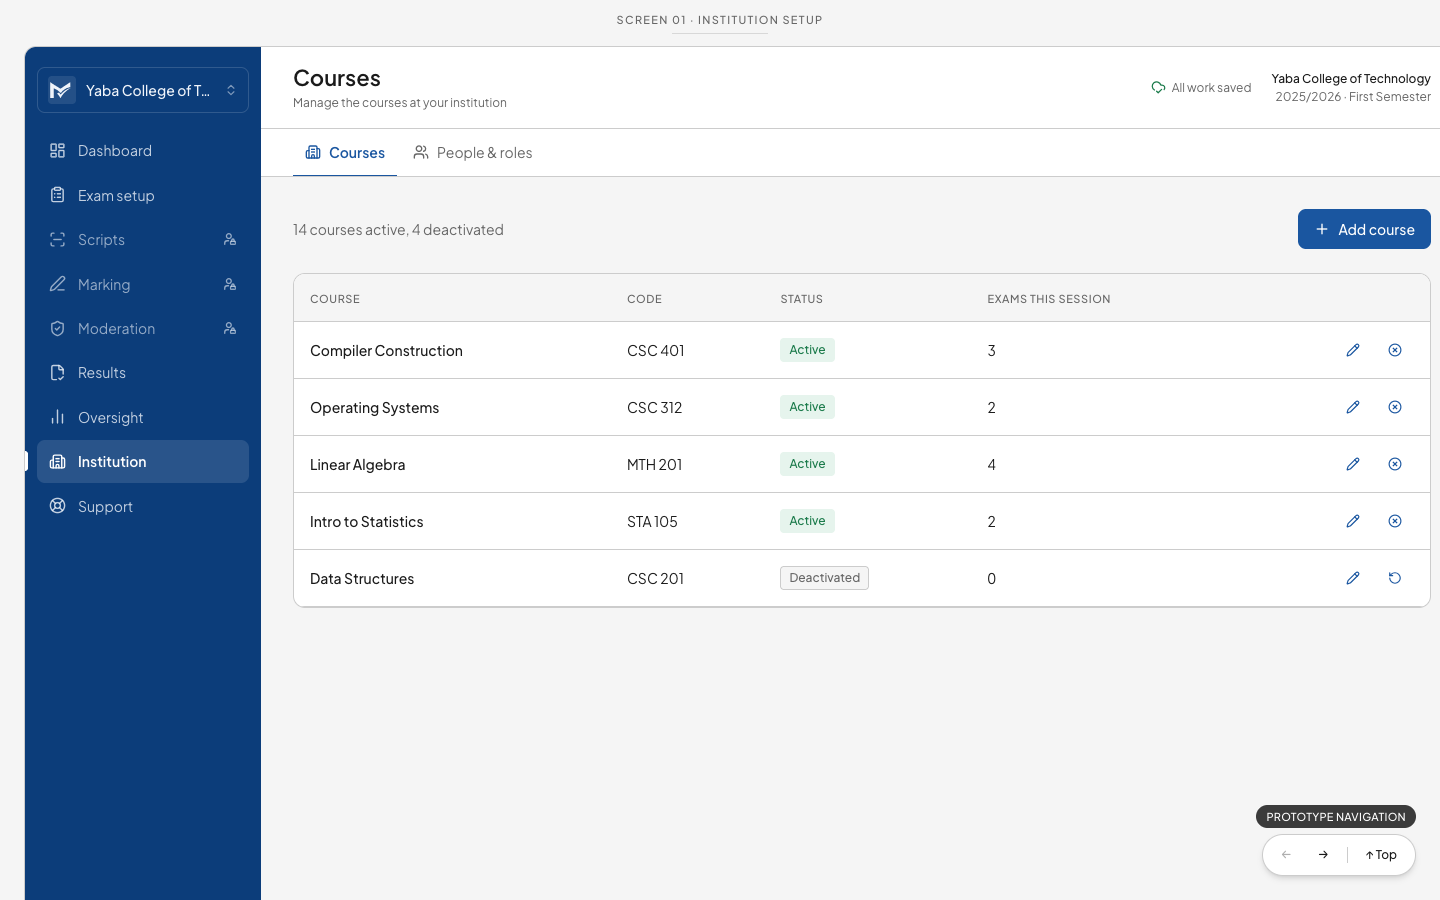
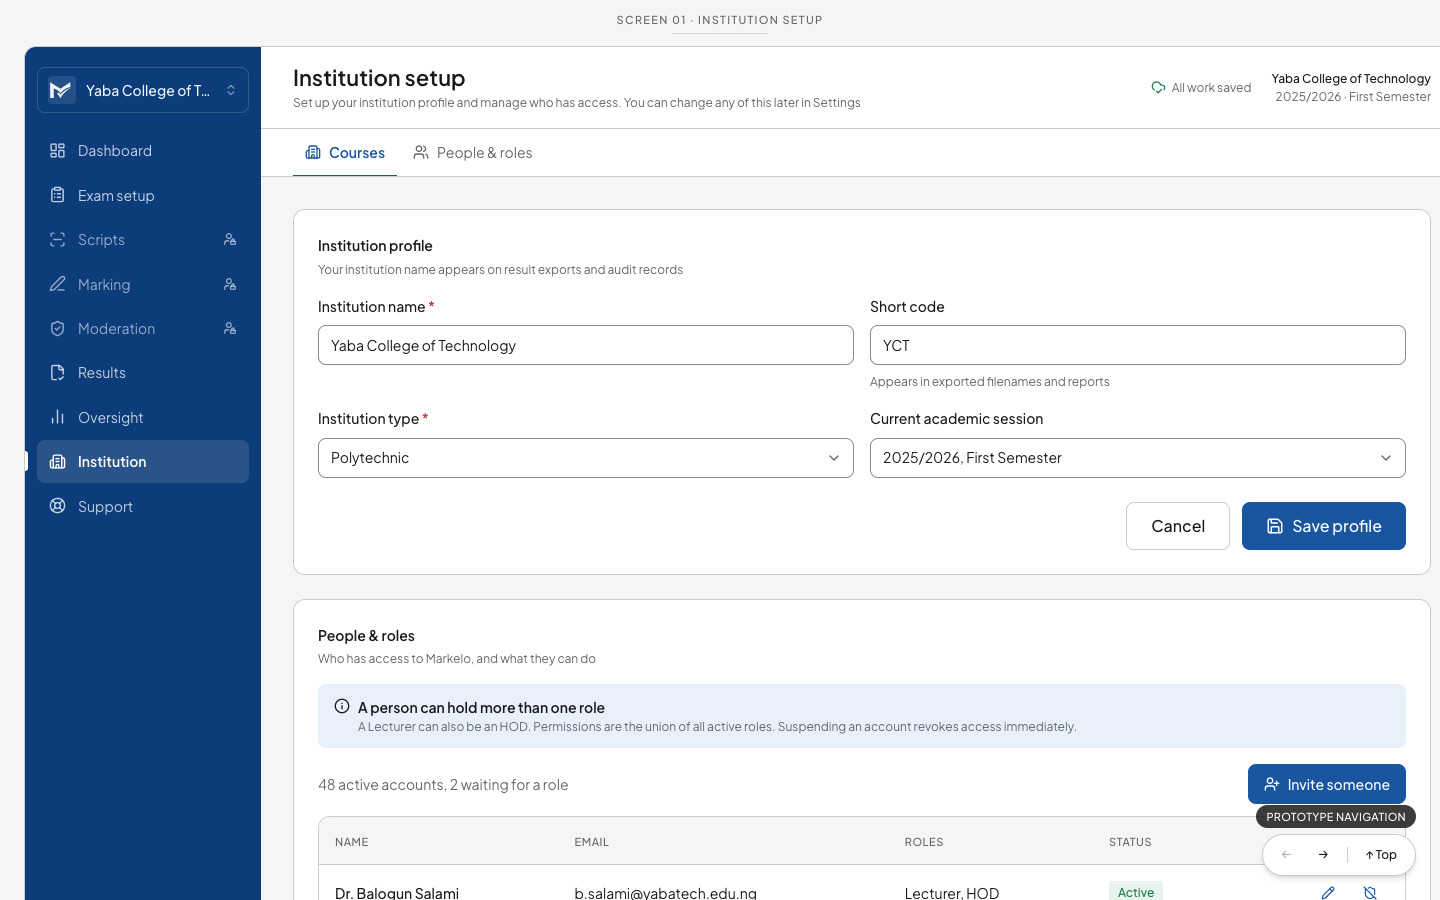
feat(governance): combined Institution Setup screen (profile + People & Roles roster)
- New InstitutionSetup screen: institution profile card (name, type, short
  code, session) plus People & Roles table below it, one scrolling page
- Replaces the separate People & Roles screen in the 5180 flow (5 screens)
- Registered in scaffold harness under Phase 2, before Institution Courses
- 13/13 verify.mjs checks PASS

diff --git a/webapp-scaffold/src/screens/admin.tsx b/webapp-scaffold/src/screens/admin.tsx
@@ -20,7 +20,7 @@ import {
   Upload, FileUp, ScanLine,
   PenLine, Archive,
   ScrollText, Lock, Unlock,
-  Check, RotateCcw,
+  Check, RotateCcw, Save,
 } from "lucide-react";
 
 /* ------------------------------------------------------------------ helpers */
@@ -48,6 +48,97 @@ function SkeletonCard() {
         <div className="h-4 w-3/4 animate-pulse rounded bg-bg" />
       </div>
     </Card>
+  );
+}
+
+/* ----------------------------------------------- 0. Institution Setup */
+
+export function InstitutionSetup() { return <InstitutionSetupDefault />; }
+
+function InstitutionSetupDefault() {
+  return (
+    <AppFrame role={ROLES.admin} activeLabel="Courses" title="Institution setup" sub="Set up your institution profile and manage who has access. You can change any of this later in Settings">
+      <div className="flex flex-col gap-6">
+        <Card>
+          <CardHeader
+            title="Institution profile"
+            sub="Your institution name appears on result exports and audit records"
+          />
+          <form className="flex flex-col gap-4" onSubmit={(e) => e.preventDefault()}>
+            <div className="grid grid-cols-2 gap-4">
+              <Field label="Institution name" required>
+                <Input defaultValue="Yaba College of Technology" />
+              </Field>
+              <Field label="Short code" hint="Appears in exported filenames and reports">
+                <Input defaultValue="YCT" />
+              </Field>
+            </div>
+            <div className="grid grid-cols-2 gap-4">
+              <Field label="Institution type" required>
+                <Select defaultValue="poly">
+                  <option value="uni">University</option>
+                  <option value="poly">Polytechnic</option>
+                  <option value="coe">College of Education</option>
+                  <option value="mono">Monotechnic</option>
+                </Select>
+              </Field>
+              <Field label="Current academic session">
+                <Select defaultValue="2025-2026-1">
+                  <option value="2025-2026-1">2025/2026, First Semester</option>
+                  <option value="2024-2025-2">2024/2025, Second Semester</option>
+                </Select>
+              </Field>
+            </div>
+            <div className="flex items-center justify-end gap-3 pt-2">
+              <Button variant="secondary" size="lg">Cancel</Button>
+              <Button size="lg" icon={Save}>Save profile</Button>
+            </div>
+          </form>
+        </Card>
+
+        <Card>
+          <CardHeader
+            title="People & roles"
+            sub="Who has access to Markelo, and what they can do"
+          />
+          <Notice tone="brand" title="A person can hold more than one role">
+            A Lecturer can also be an HOD. Permissions are the union of all active roles. Suspending an
+            account revokes access immediately.
+          </Notice>
+          <div className="mt-4 flex items-center justify-between">
+            <p className="text-body text-muted">48 active accounts, 2 waiting for a role</p>
+            <Button icon={UserPlus}>Invite someone</Button>
+          </div>
+          <div className="mt-3">
+            <Table head={["Name", "Email", "Roles", "Status", ""]}>
+              {[
+                { n: "Dr. Balogun Salami", e: "b.salami@yabatech.edu.ng", r: "Lecturer, HOD", s: "Active" },
+                { n: "Mrs. Adaeze Okonkwo", e: "a.okonkwo@yabatech.edu.ng", r: "Exam Officer", s: "Active" },
+                { n: "Chidinma Eze", e: "c.eze@yabatech.edu.ng", r: "Teaching Assistant", s: "Active" },
+                { n: "Prof. Eze Nwachukwu", e: "e.nwachukwu@yabatech.edu.ng", r: "Moderator / HOD", s: "Active" },
+                { n: "Grace Obi", e: "g.obi@yabatech.edu.ng", r: "Not set", s: "Awaiting role" },
+                { n: "Samuel Idowu", e: "s.idowu@yabatech.edu.ng", r: "Not set", s: "Awaiting role" },
+              ].map((r) => (
+                <tr key={r.e}>
+                  <Td className="font-medium">{r.n}</Td>
+                  <Td className="text-muted">{r.e}</Td>
+                  <Td><span className="text-body text-text">{r.r}</span></Td>
+                  <Td>
+                    <Badge tone={r.s === "Active" ? "success" : "warning"}>{r.s}</Badge>
+                  </Td>
+                  <Td className="text-right">
+                    <div className="flex items-center justify-end gap-1">
+                      <Button variant="ghost" size="sm" icon={Pencil} aria-label={`Edit roles for ${r.n}`} />
+                      <Button variant="ghost" size="sm" icon={ShieldOff} aria-label={`Suspend ${r.n}`} />
+                    </div>
+                  </Td>
+                </tr>
+              ))}
+            </Table>
+          </div>
+        </Card>
+      </div>
+    </AppFrame>
   );
 }
 

diff --git a/prototype-flow/src/flow.tsx b/prototype-flow/src/flow.tsx
@@ -6,8 +6,8 @@
   NOT a route table. This is a demo-order list for the scroll canvas.
 
   Every screen is imported live from webapp-scaffold/src/screens/*, zero copies.
-  The order tells the governance story: establish the institution, who has
-  access, settings and security, accountability through the audit trail, and
+  The order tells the governance story: establish the institution (profile and
+  people), settings and security, accountability through the audit trail, and
   the controlled correction of locked results.
 
   `actions` maps a click on a button/link (matched by its visible text,
@@ -47,17 +47,7 @@ export const FLOW: FlowScreen[] = [
     group: "governance",
     el: (
       <Flat>
-        <AD.InstitutionCourses />
-      </Flat>
-    ),
-  },
-  {
-    id: "people-roles",
-    label: "People & Roles",
-    group: "governance",
-    el: (
-      <Flat>
-        <AD.PeopleRoles />
+        <AD.InstitutionSetup />
       </Flat>
     ),
   },

diff --git a/webapp-scaffold/src/App.tsx b/webapp-scaffold/src/App.tsx
@@ -103,6 +103,9 @@ const GROUPS: Group[] = [
     title: "Phase 2: Institution Admin",
     owner: "KingFizzy",
     screens: [
+      /* --- Institution Setup (combined: profile + People & Roles) --- */
+      { id: "ad-setup", label: "Institution setup: default", note: "profile + People & Roles", el: <AD.InstitutionSetup /> },
+
       /* --- Institution Courses (I1) --- */
       { id: "ad-courses", label: "Courses: default", note: "I1", el: <AD.InstitutionCourses /> },
       { id: "ad-courses-empty", label: "Courses: empty", el: <AD.InstitutionCoursesEmpty /> },
